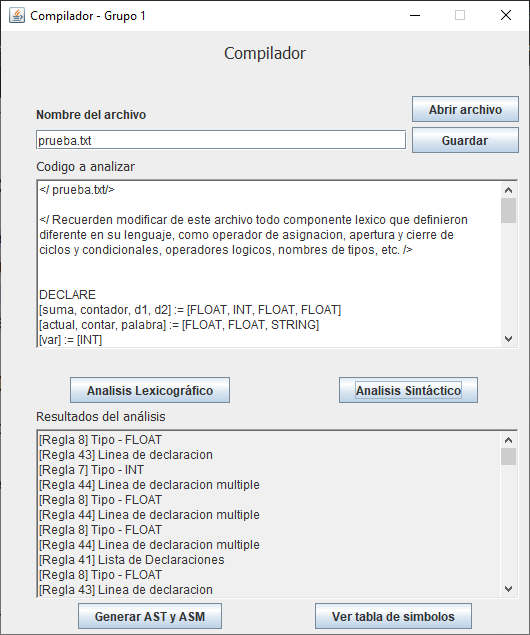
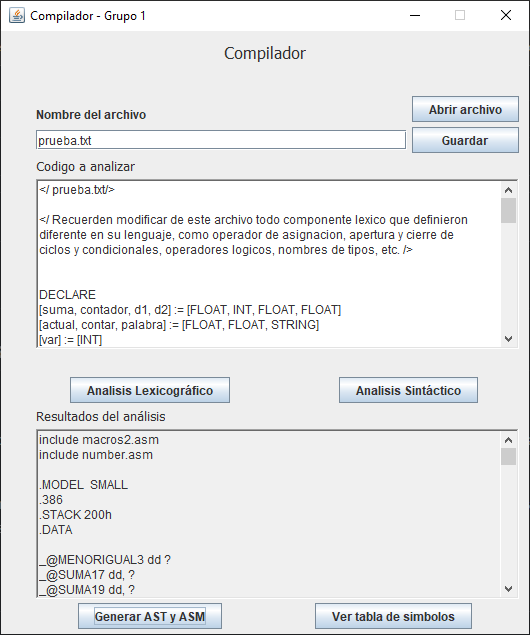
fix: example img asm

diff --git a/Entregas/TerceraEntrega/README.md b/Entregas/TerceraEntrega/README.md
@@ -8,4 +8,4 @@
 
 - El código ASM se encuentra en el archivo final.asm y además se muestra por interfaz de usuario en la caja de texto "Resultado del análisis", como puede verse en la siguiente imágen
 
-![asm on result screen](/https://github.com/MelanyBulfero/TP-Compilador/blob/main/Entregas/TerceraEntrega/asm-window.png)
+![asm on result screen](asm-window.png)
